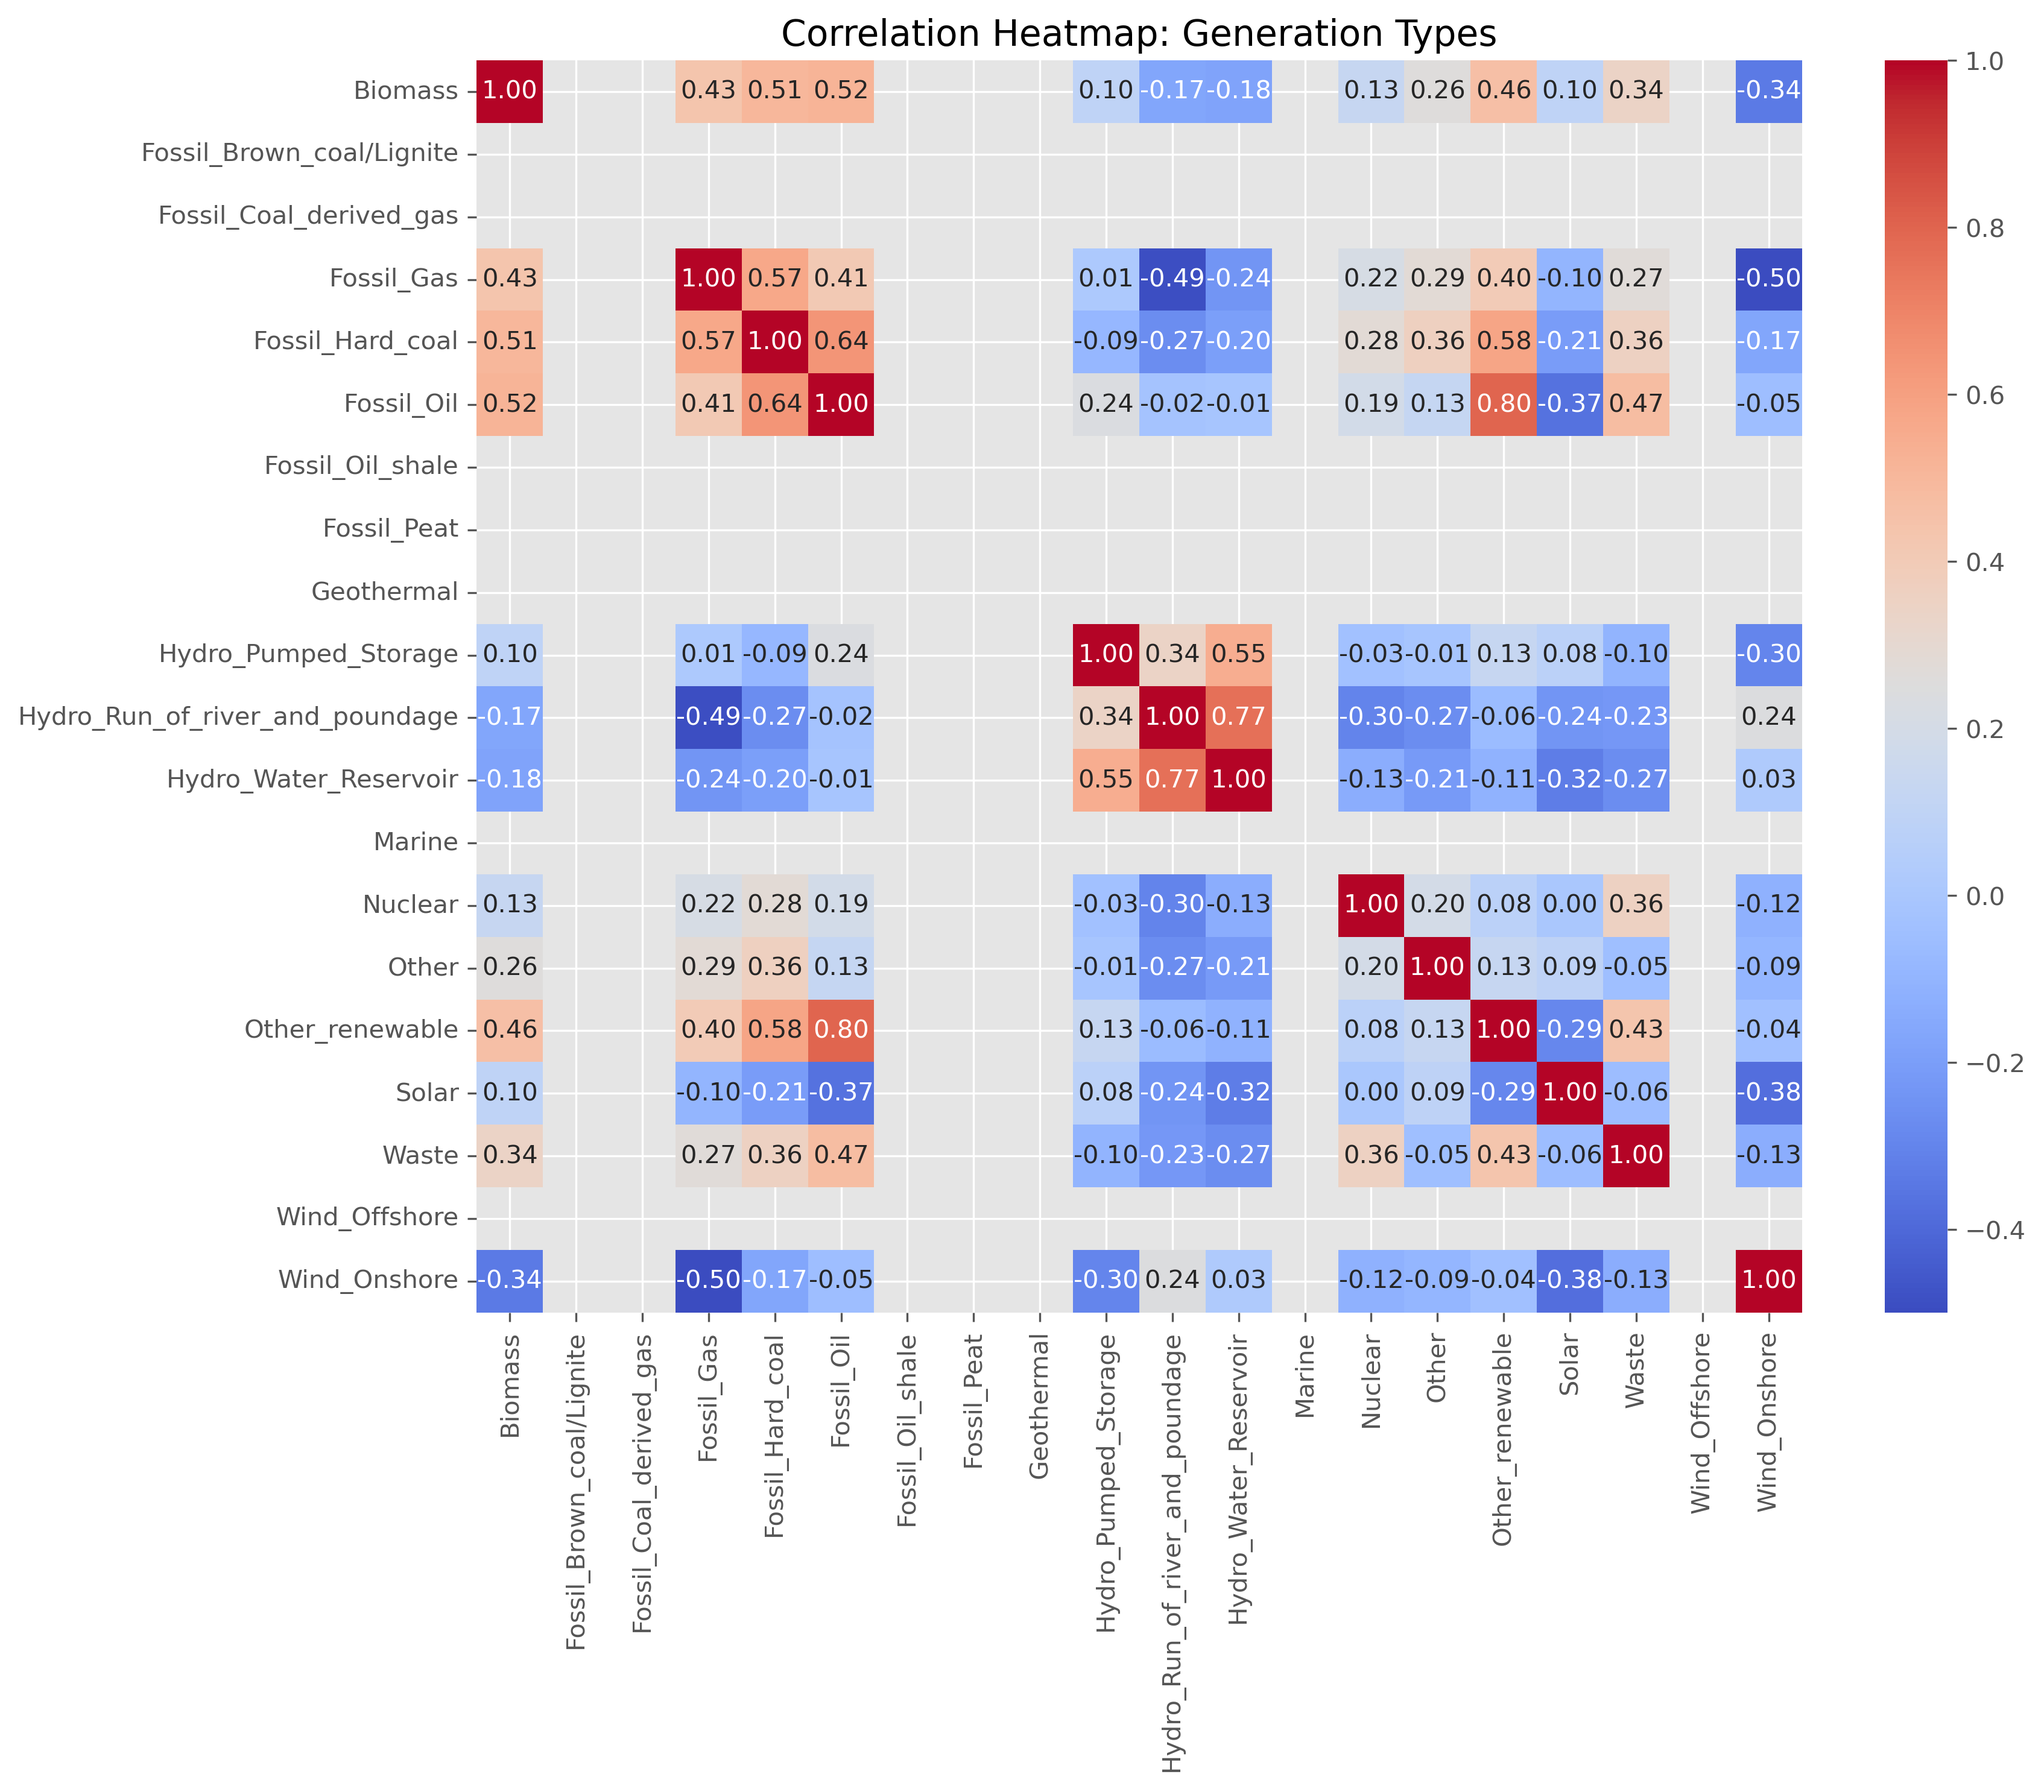
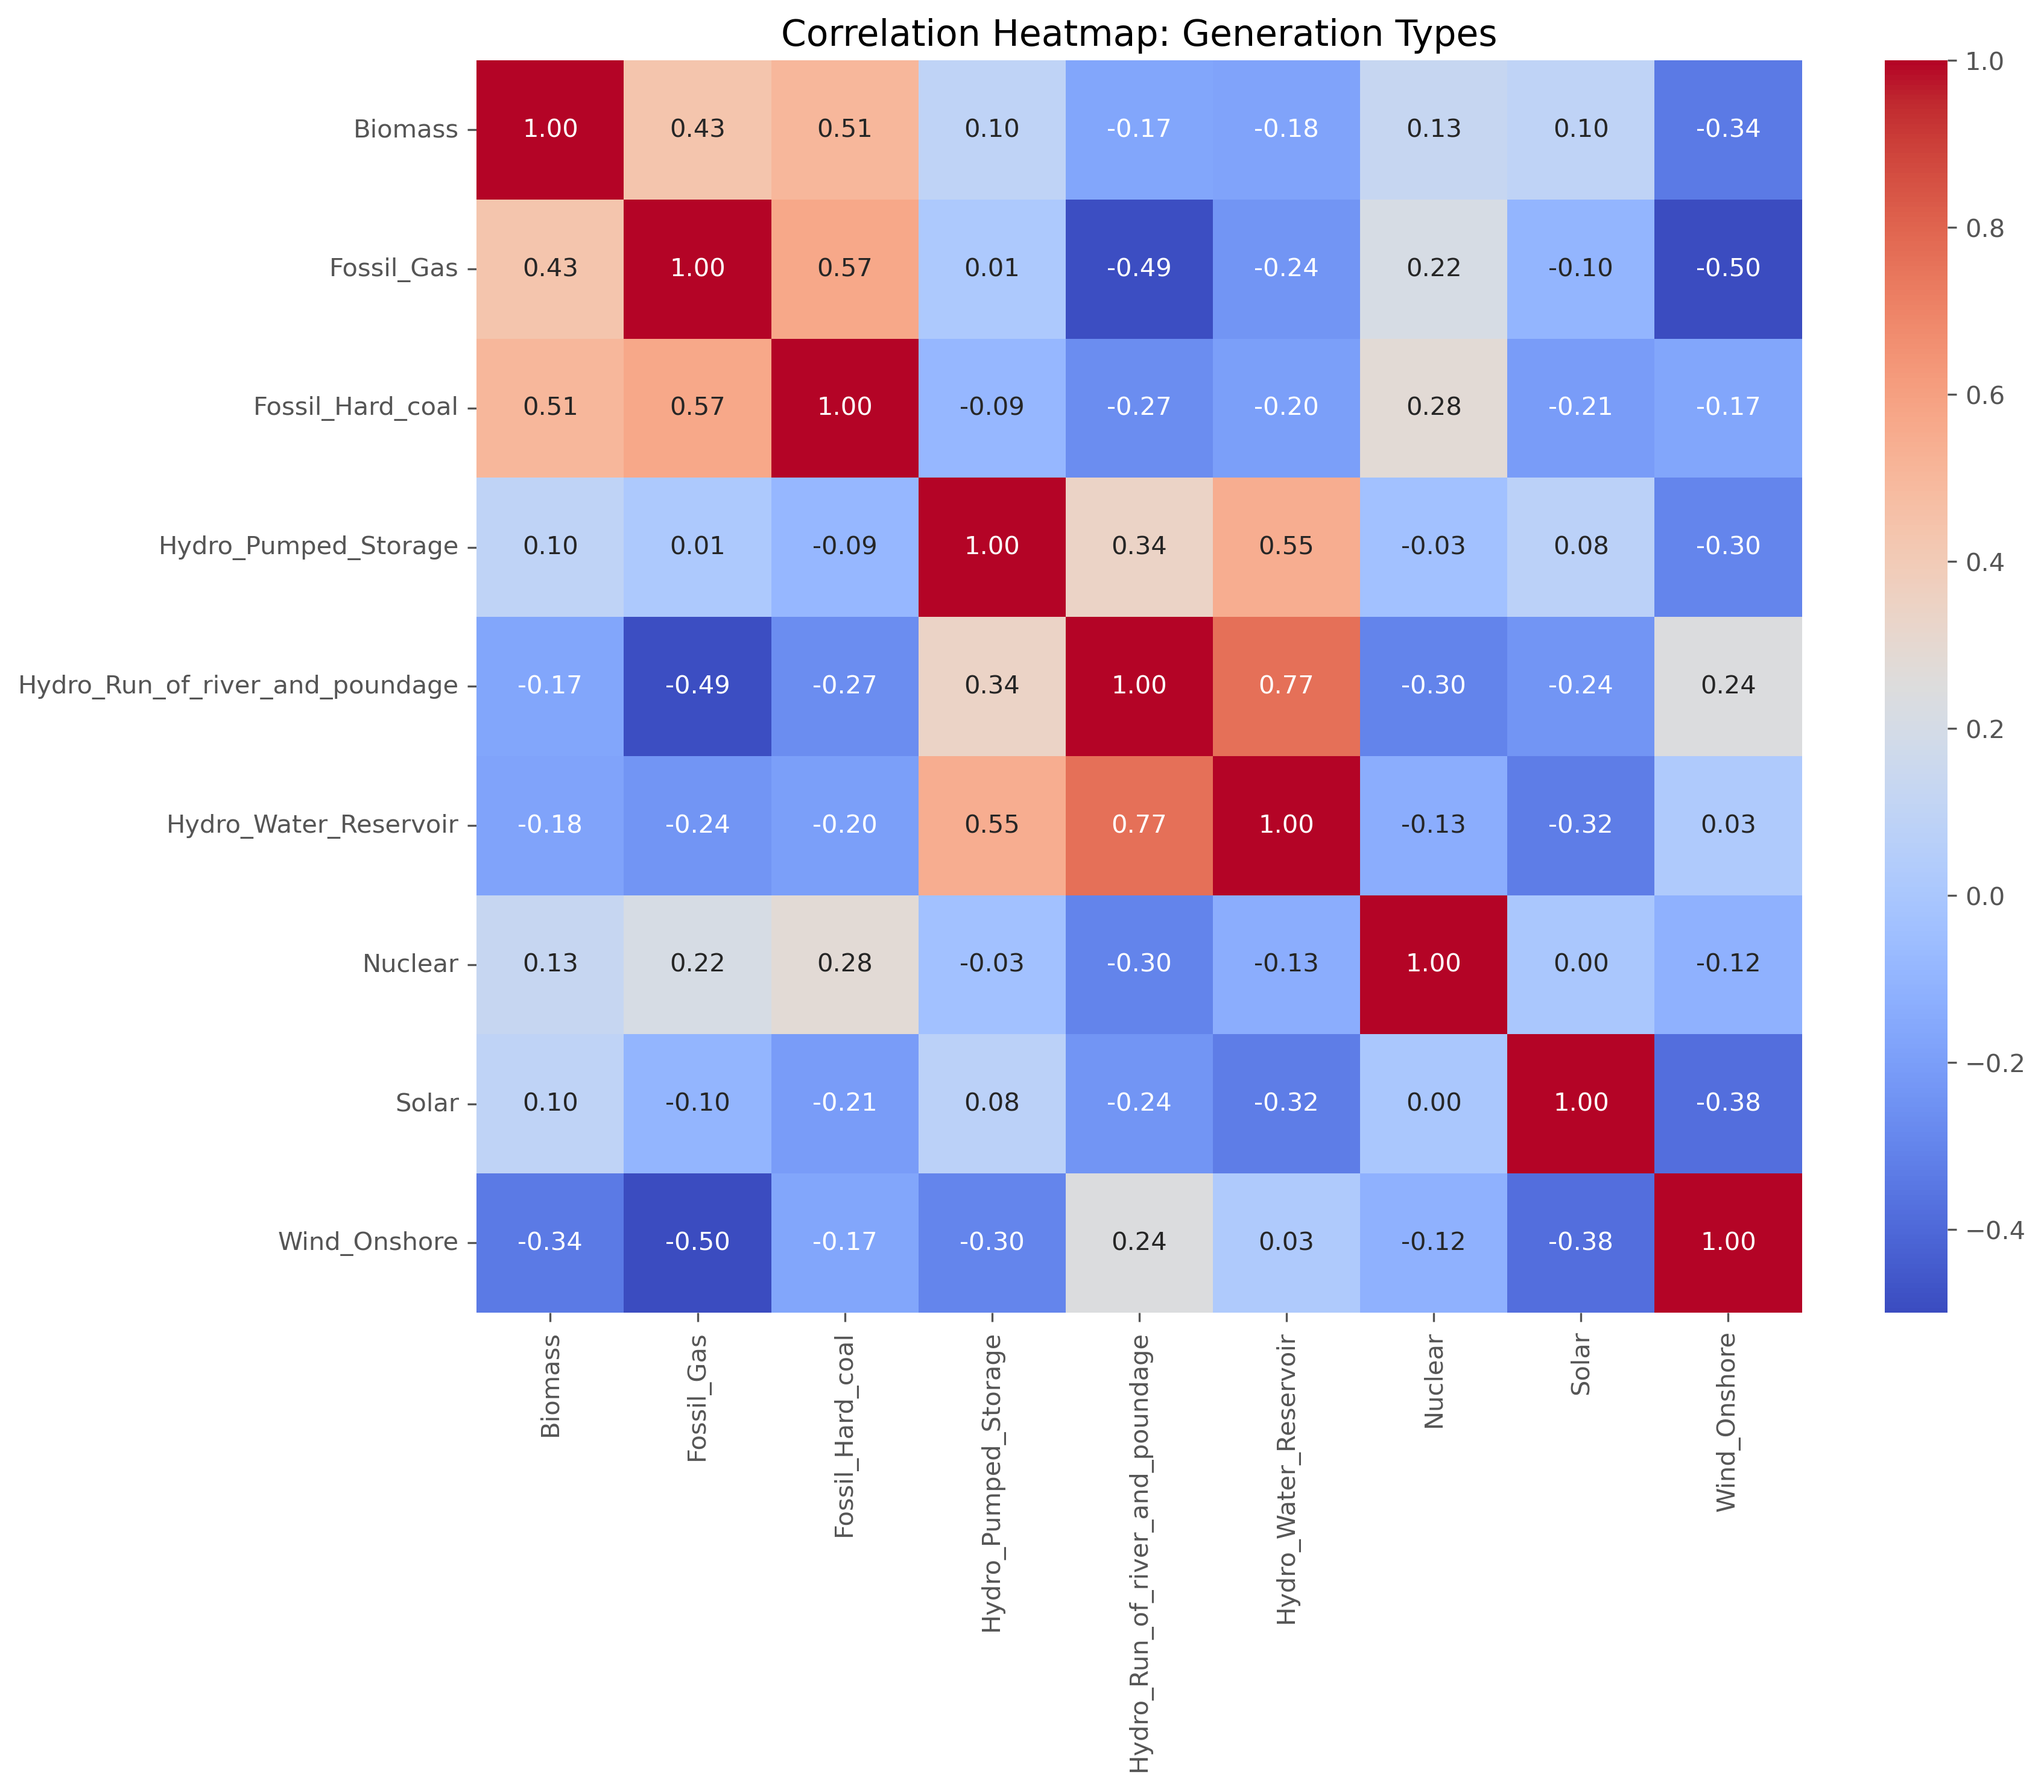
EDA_Adv.py now filters out generation types that figure less than 1% of the total share.

diff --git a/EDA_Adv.py b/EDA_Adv.py
@@ -26,7 +26,10 @@ daily_load = df_load.resample('D').mean(numeric_only=True)/1000
 daily_gen = df_gen.resample('D').mean(numeric_only=True)/1000
 daily_types = df_types.resample('D').mean(numeric_only=True)/1000
 
-
+# Remove low-impact generation types (less than 1% of total energy)
+total_energy = daily_types.sum()
+share = total_energy / total_energy.sum()
+daily_types = daily_types.loc[:, share >= 0.01]
 
 #Plot daily Load & Generation
 
@@ -99,8 +102,12 @@ plt.show()
 #Correlation heatmap
 #When one variable changes, how likely is the other to change with it, and in which direction
 
+# Clean data: drop columns that are all NaN or constant
+daily_types_clean = daily_types.dropna(axis=1, how='all')  # remove empty columns
+daily_types_clean = daily_types_clean.loc[:, daily_types_clean.std() > 0.01]  # remove columns with no variation
+
 plt.figure(figsize=(12, 10))
-corr = daily_types.corr()
+corr = daily_types_clean.corr()
 sns.heatmap(corr, annot=True, cmap="coolwarm", fmt=".2f")
 plt.title("Correlation Heatmap: Generation Types")
 plt.tight_layout()
